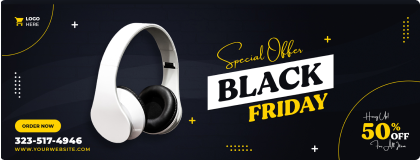
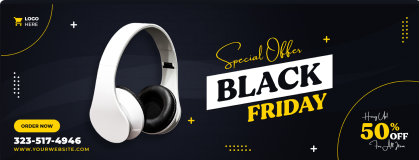
Final Version - Simple Responsive E-Commerce Website

diff --git a/assets/css/responsive.css b/assets/css/responsive.css
@@ -41,19 +41,19 @@
       }
 
       /* ========== PRODUCT BANNER ========== */
-      .banner__container{
-            gap: .3rem;
-      }
+      /* .banner__inner-container{
+            gap: 3rem;
+      } */
 
       /* ========== BRAND LOGO ========== */
       .logo__container{
-            height: 100px;
+            height: 70px;
             margin: 30px auto 0 auto;
 
       }
 
       .logo__container > a > img{
-            height: 40px;
+            height: 30px;
       }
       
       /* ========== PRODUCT CATEGORY ========== */
@@ -154,6 +154,33 @@
 
 
 
+@media screen and (min-width:800px){
+      .banner__inner-container{
+            flex-direction: row;
+            justify-content:center;
+            gap: .5rem;
+            align-items: center;
+      }
+
+      .banner__box1{
+            width: 75%;
+      }
+
+      .banner__group{
+            width: 55%;
+            height: 100%;
+            flex-direction: column;
+            gap: .5rem;
+            justify-content:space-evenly;
+      }
+
+      .box__1 > img, .box__2 > img {
+            width: 100%;
+            height: auto;
+            object-fit: cover;
+      }
+      
+}
 
 
 
@@ -171,14 +198,44 @@
 
 
 @media screen and (min-width:1240px){
+
+      body{
+            width: 100%;
+            display: flex;
+            flex-direction: column;
+            align-items: center;
+      }
+
+      .nav__container{
+            right: unset;
+      }
+      .footer__container, .navbar, .banner__container, .brand__container, .category__container, .product__container, .blog__container{
+            width: 70%;
+            
+      }
+
+      .footer{
+            width: 100%;
+            display: grid;
+            place-content: center;
+            place-items: center;
+      }
+
+      .footer__container{
+            grid-template-columns: repeat(3, 1fr);
+            gap: .5rem;
+      }      
+
+
       .productCard__container{
             grid-template-columns: repeat(4, 1fr);
-            }
+      }
 }
 
 
 @media screen and (min-width:1440px){
+      
       .productCard__container{
             grid-template-columns: repeat(6, 1fr);
-            }
+      }
 }

diff --git a/index.html b/index.html
@@ -54,12 +54,18 @@
       </section>
       <!-- ==========PRODUCT BANNER========== -->
       <section class="banner__container" id="home">
-            <div class="banner__box1">
-                  <img src="assets/img/banner-1.png" alt="Product Banner" class="main__banner">
-            </div>
-            <div class="banner__box2">
-                  <img src="assets/img/banner-2.png" alt="Product Banner" class="secondary__banner">
-                  <img src="assets/img/banner-3.png" alt="Product Banner" class="secondary__banner pl">
+            <div class="banner__inner-container">
+                  <div class="banner__box1">
+                        <img src="assets/img/banner-1.png" alt="Product Banner" class="main__banner">
+                  </div>
+                  <div class="banner__group">
+                        <div class="box__1">
+                              <img src="assets/img/banner-2.png" alt="Product Banner" class="secondary__banner">
+                        </div>
+                        <div class="box__2">
+                              <img src="assets/img/banner-3.png" alt="Product Banner" class="secondary__banner pl">
+                        </div>
+                  </div>
             </div>
       </section>
       <!-- ==========BRAND LOGO========== -->

diff --git a/assets/css/style.css b/assets/css/style.css
@@ -44,11 +44,6 @@ ul,li,ol,a{
       --l:300;
 }
 
-/* ==========REUSABLE========== */
-.pl{
-      padding-left: 5px;
-}
-
 
 /* ==========NAVBAR========== */
 .nav__container{
@@ -169,29 +164,39 @@ ul,li,ol,a{
       display: flex;
       flex-direction: column;
       align-items: center;
-      /* justify-content: center; */
+      justify-content: center;
       margin-top: 100px;
       scroll-margin: 110px;
 }
 
-.banner__box1,.banner__box2{
+.banner__inner-container{
       width: 95%;
+      display:inherit;
+      flex-direction: column;
 }
 
-.banner__box1 > img {
+.banner__group{
+      width: 100%;
+      height: auto;
+      display: flex;
+}
+
+.main__banner{
       width: 100%;
       height: auto;
       object-fit: cover;
 }
 
-.banner__box2{
-      display: flex;
+.secondary__banner.pl{
+      padding-left: 5px;
 }
 
-.banner__box2 > img {
-      width: 50%;
-      /* padding: 0px 0px 0px 5px; */
+.box__1 > img, .box__2 > img {
+      width: 100%;
+      height: auto;
+      object-fit: cover;
 }
+
 /* ==========BRAND LOGO========== */
 .brand__container{
       width: 100%;
